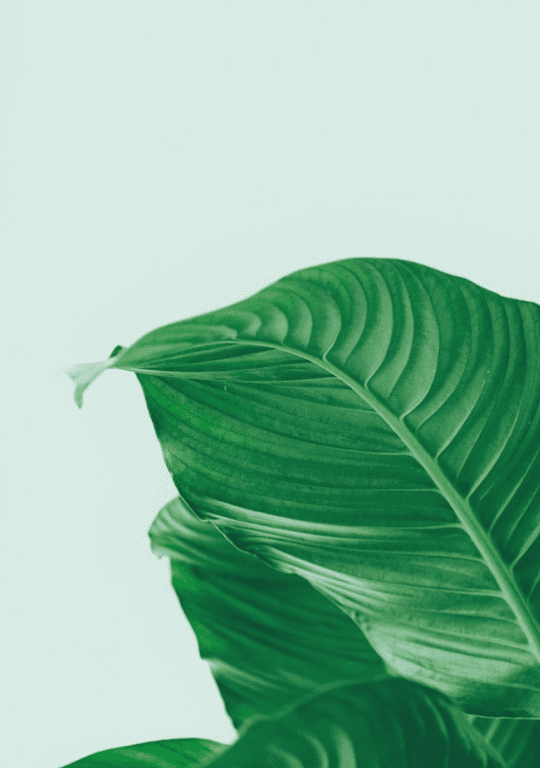
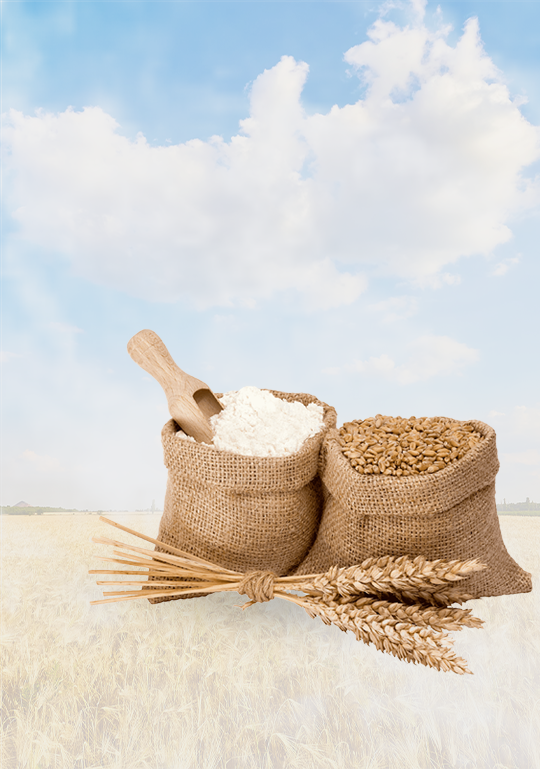
Update frontend assets and localization
- Replaced loading GIF with a new version.
- Updated product price display in index.blade.php to include currency (dt).
- Translated various text elements in footer.blade.php to French.
- Changed the title in frontend_master.blade.php to "El.Mandra".
- Updated icon images from SVG to PNG format for better compatibility.
- Added new logo image for "mandra_2.gif".
- Added .gitignore for debugbar storage directory.

diff --git a/resources/views/frontend/index.blade.php b/resources/views/frontend/index.blade.php
@@ -174,12 +174,12 @@
                                 <div class="product-card-bottom">
                                     @if($product->discount)
                                     <div class="product-price">
-                                        <span>${{ number_format($product->selling_price - ($product->selling_price * ($product->discount / 100)), 2) }}</span>
-                                        <span class="old-price">${{ number_format($product->selling_price, 2) }}</span>
+                                        <span>{{ number_format($product->selling_price - ($product->selling_price * ($product->discount / 100)), 2) }} dt</span>
+                                        <span class="old-price">{{ number_format($product->selling_price, 2) }} dt</span>
                                     </div>
                                     @else
                                     <div class="product-price">
-                                        <span>${{ number_format($product->selling_price, 2) }}</span>
+                                        <span>{{ number_format($product->selling_price, 2) }} dt</span>
                                     </div>
                                     @endif
                                     <div class="add-cart">
@@ -264,12 +264,12 @@
                                 <div class="product-card-bottom">
                                     @if($product->discount)
                                     <div class="product-price">
-                                        <span>${{ number_format($product->selling_price - ($product->selling_price * ($product->discount / 100)), 2) }}</span>
-                                        <span class="old-price">${{ number_format($product->selling_price, 2) }}</span>
+                                        <span>{{ number_format($product->selling_price - ($product->selling_price * ($product->discount / 100)), 2) }} dt</span>
+                                        <span class="old-price">{{ number_format($product->selling_price, 2) }} dt</span>
                                     </div>
                                     @else
                                     <div class="product-price">
-                                        <span>${{ number_format($product->selling_price, 2) }}</span>
+                                        <span>{{ number_format($product->selling_price, 2) }} dt</span>
                                     </div>
                                     @endif
                                     <div class="add-cart">
@@ -299,7 +299,7 @@
             <div class="col-lg-3 d-none d-lg-flex wow animate__animated animate__fadeIn">
                 <div class="banner-img style-2">
                     <div class="banner-text">
-                        <h2 class="mb-100">Bring nature into your home</h2>
+                        <h2 class="mb-100">عولة الدار... ذوقها حكاية  وسرّها في المحبّة</h2>
                         {{-- Link to the first category from $categories_with_products or $categories as fallback --}}
                         <a href="{{ isset($categories_with_products[0]) ? route('product_by_category', $categories_with_products[0]->id) : (isset($categories[0]) ? route('product_by_category', $categories[0]->id) : '#') }}" class="btn btn-xs">
                             Shop Now <i class="fi-rs-arrow-small-right"></i>
@@ -377,12 +377,12 @@
                                         <div class="product-card-bottom">
                                             @if($featured_product->discount)
                                             <div class="product-price">
-                                                <span>${{ number_format($featured_product->selling_price - ($featured_product->selling_price * ($featured_product->discount / 100)), 2) }}</span>
-                                                <span class="old-price">${{ number_format($featured_product->selling_price, 2) }}</span>
+                                                <span>{{ number_format($featured_product->selling_price - ($featured_product->selling_price * ($featured_product->discount / 100)), 2) }} dt</span>
+                                                <span class="old-price">{{ number_format($featured_product->selling_price, 2) }} dt</span>
                                             </div>
                                             @else
                                             <div class="product-price">
-                                                <span>${{ number_format($featured_product->selling_price, 2) }}</span>
+                                                <span>{{ number_format($featured_product->selling_price, 2) }} dt</span>
                                             </div>
                                             @endif
                                             <div class="add-cart">
@@ -476,12 +476,12 @@
                                 <div class="product-card-bottom">
                                     @if($product->discount)
                                     <div class="product-price">
-                                        <span>${{ number_format($product->selling_price - ($product->selling_price * ($product->discount / 100)), 2) }}</span>
-                                        <span class="old-price">${{ number_format($product->selling_price, 2) }}</span>
+                                        <span>{{ number_format($product->selling_price - ($product->selling_price * ($product->discount / 100)), 2) }} dt</span>
+                                        <span class="old-price">{{ number_format($product->selling_price, 2) }} dt</span>
                                     </div>
                                     @else
                                     <div class="product-price">
-                                        <span>${{ number_format($product->selling_price, 2) }}</span>
+                                        <span>{{ number_format($product->selling_price, 2) }} dt</span>
                                     </div>
                                     @endif
                                     <div class="add-cart">
@@ -502,8 +502,8 @@
 @endforeach
 <!--End CAtegory with products -->
 
-<section class="section-padding mb-30">
-    <div class="container">
+<section class="section-padding mb-30"style="display: none;">
+    <div class="container" >
         <div class="row">
             <div class="col-xl-3 col-lg-4 col-md-6 mb-sm-5 mb-md-0 wow animate__animated animate__fadeInUp"
                 data-wow-delay="0">

diff --git a/resources/views/frontend/layout/footer.blade.php b/resources/views/frontend/layout/footer.blade.php
@@ -29,11 +29,12 @@
                     <div class="banner-left-icon d-flex align-items-center wow animate__animated animate__fadeInUp"
                         data-wow-delay="0">
                         <div class="banner-icon">
-                            <img src="{{asset('frontend')}}/assets/imgs/theme/icons/icon-1.svg" alt="" />
+                            <img src="{{asset('frontend')}}/assets/imgs/theme/icons/icon-1.png" alt="" />
                         </div>
                         <div class="banner-text">
-                            <h3 class="icon-box-title">Best prices & offers</h3>
-                            <p>Orders $50 or more</p>
+                            <h3 class="icon-box-title">Meilleurs prix et offres</h3>
+<p>Pour les commandes à partir de 50 DT</p>
+
                         </div>
                     </div>
                 </div>
@@ -41,48 +42,55 @@
                     <div class="banner-left-icon d-flex align-items-center wow animate__animated animate__fadeInUp"
                         data-wow-delay=".1s">
                         <div class="banner-icon">
-                            <img src="{{asset('frontend')}}/assets/imgs/theme/icons/icon-2.svg" alt="" />
+                            <img src="{{asset('frontend')}}/assets/imgs/theme/icons/icon-2.png" alt="" />
                         </div>
                         <div class="banner-text">
-                            <h3 class="icon-box-title">Free delivery</h3>
-                            <p>24/7 amazing services</p>
+                            <h3 class="icon-box-title">Livraison gratuite assurée</h3>
+                            <p>Service client 24h/24 et 7j/7</p>
                         </div>
+                        
                     </div>
                 </div>
                 <div class="col-lg-1-5 col-md-4 col-12 col-sm-6">
                     <div class="banner-left-icon d-flex align-items-center wow animate__animated animate__fadeInUp"
                         data-wow-delay=".2s">
                         <div class="banner-icon">
-                            <img src="{{asset('frontend')}}/assets/imgs/theme/icons/icon-3.svg" alt="" />
+                            <img src="{{asset('frontend')}}/assets/imgs/theme/icons/icon-3.png" alt="" />
                         </div>
                         <div class="banner-text">
-                            <h3 class="icon-box-title">Great daily deal</h3>
-                            <p>When you sign up</p>
+                            <h3 class="icon-box-title">Offre locale exclusive du jour</h3>
+                            <p>Réservée uniquement aux membres inscrits</p>
                         </div>
+                        
+                        
                     </div>
                 </div>
                 <div class="col-lg-1-5 col-md-4 col-12 col-sm-6">
                     <div class="banner-left-icon d-flex align-items-center wow animate__animated animate__fadeInUp"
                         data-wow-delay=".3s">
                         <div class="banner-icon">
-                            <img src="{{asset('frontend')}}/assets/imgs/theme/icons/icon-4.svg" alt="" />
+                            <img src="{{asset('frontend')}}/assets/imgs/theme/icons/icon-4.png" alt="" />
                         </div>
                         <div class="banner-text">
-                            <h3 class="icon-box-title">Wide assortment</h3>
-                            <p>Mega Discounts</p>
+                            <h3 class="icon-box-title">Large assortiment local de qualité</h3>
+                            <p>Remises spéciales et imbattables</p>
                         </div>
+                        
+                        
                     </div>
                 </div>
                 <div class="col-lg-1-5 col-md-4 col-12 col-sm-6">
                     <div class="banner-left-icon d-flex align-items-center wow animate__animated animate__fadeInUp"
                         data-wow-delay=".4s">
                         <div class="banner-icon">
-                            <img src="{{asset('frontend')}}/assets/imgs/theme/icons/icon-5.svg" alt="" />
+                            <img src="{{asset('frontend')}}/assets/imgs/theme/icons/icon-5.png" alt="" />
                         </div>
                         <div class="banner-text">
-                            <h3 class="icon-box-title">Easy returns</h3>
-                            <p>Within 30 days</p>
+                            <h3 class="icon-box-title">Retours simples et garantis facilement</h3>
+                            <p>Valable sous 30 jours seulement</p>
                         </div>
+                        
+                        
                     </div>
                 </div>
                 <div class="col-lg-1-5 col-md-4 col-12 col-sm-6 d-xl-none">

diff --git a/resources/views/frontend/layout/frontend_master.blade.php b/resources/views/frontend/layout/frontend_master.blade.php
@@ -3,7 +3,7 @@
 
 <head>
     <meta charset="utf-8" />
-    <title>Nest - Multipurpose eCommerce HTML Template</title>
+    <title>El.Mandra</title>
     <meta http-equiv="x-ua-compatible" content="ie=edge" />
     <meta name="description" content="" />
     <meta name="viewport" content="width=device-width, initial-scale=1" />
